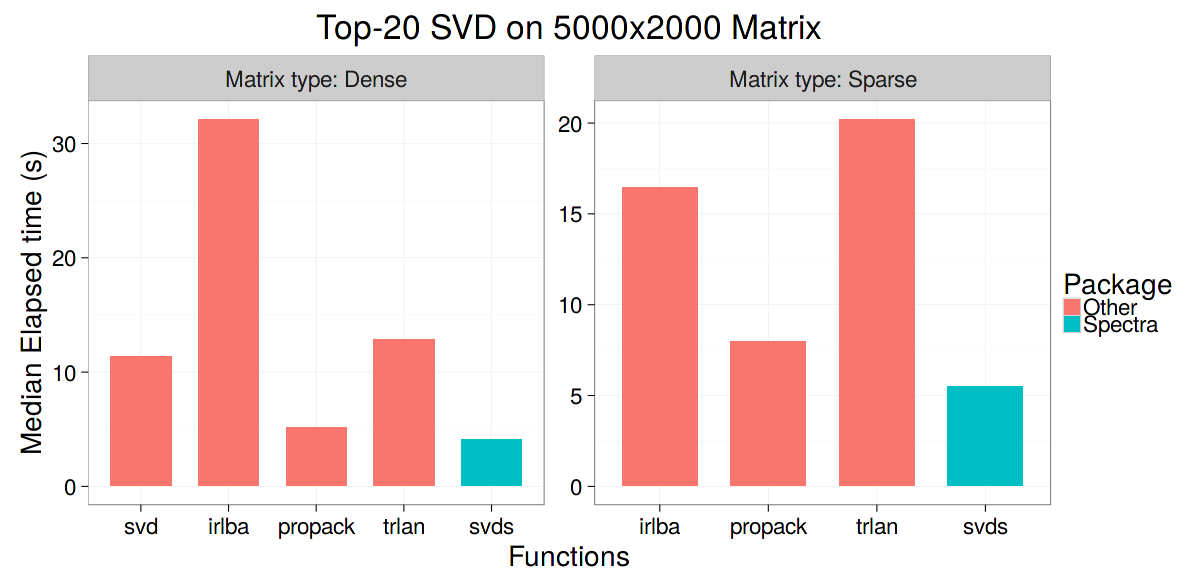
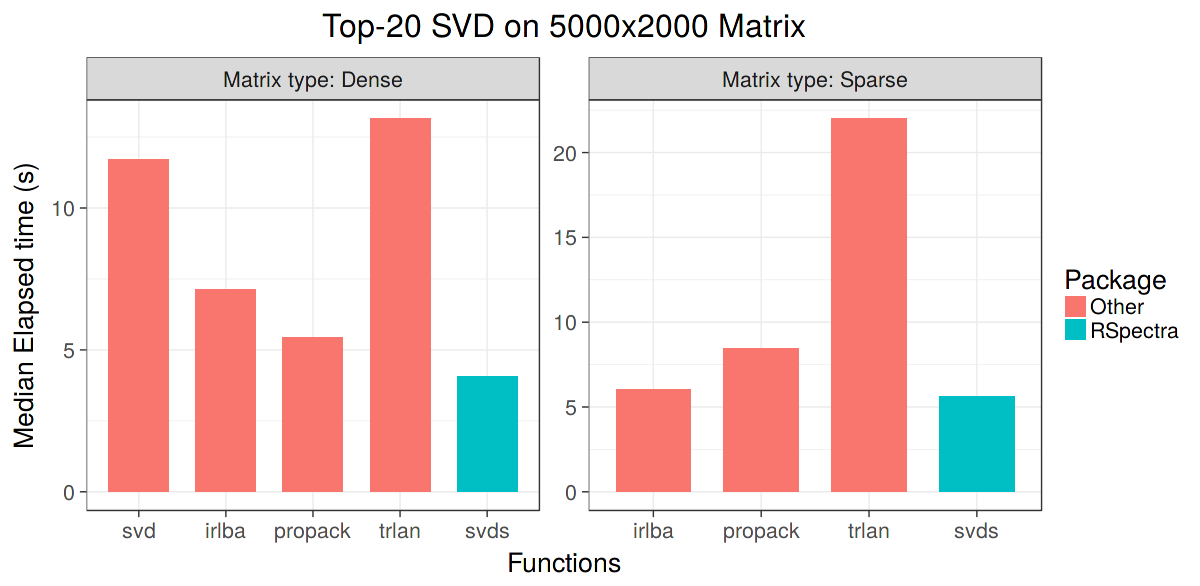
update SVD benchmark

Changed region(s): [[0.0, 0.0, 0.9867, 0.9829]]

diff --git a/performance.md b/performance.md
@@ -20,11 +20,11 @@ libraries, based on the following environment setting:
 - Spectra: version 0.5.0
 - BLAS: OpenBLAS 0.2.19, single threaded
 - ARPACK: ARPACK-NG 3.3.0
-- R: version 3.3.0
+- R: version 3.3.2
 - R packages
   - RSpectra 0.12-0
   - svd 0.4
-  - irlba 2.0.0
+  - irlba 2.1.2
   - microbenchmark 1.4.2.1
 
 ### Comparison with ARPACK
@@ -104,5 +104,6 @@ ggplot(dat, aes(x = expr, y = medtime)) +
     scale_y_continuous("Median Elapsed time (ms)") +
     scale_x_discrete("Functions") +
     ggtitle(sprintf("Top-%d SVD on %dx%d Matrix", k, n, p)) +
-    theme_bw(base_size = 20)
+    theme_bw(base_size = 20) +
+    theme(plot.title = element_text(hjust = 0.5))
 </code></pre>
